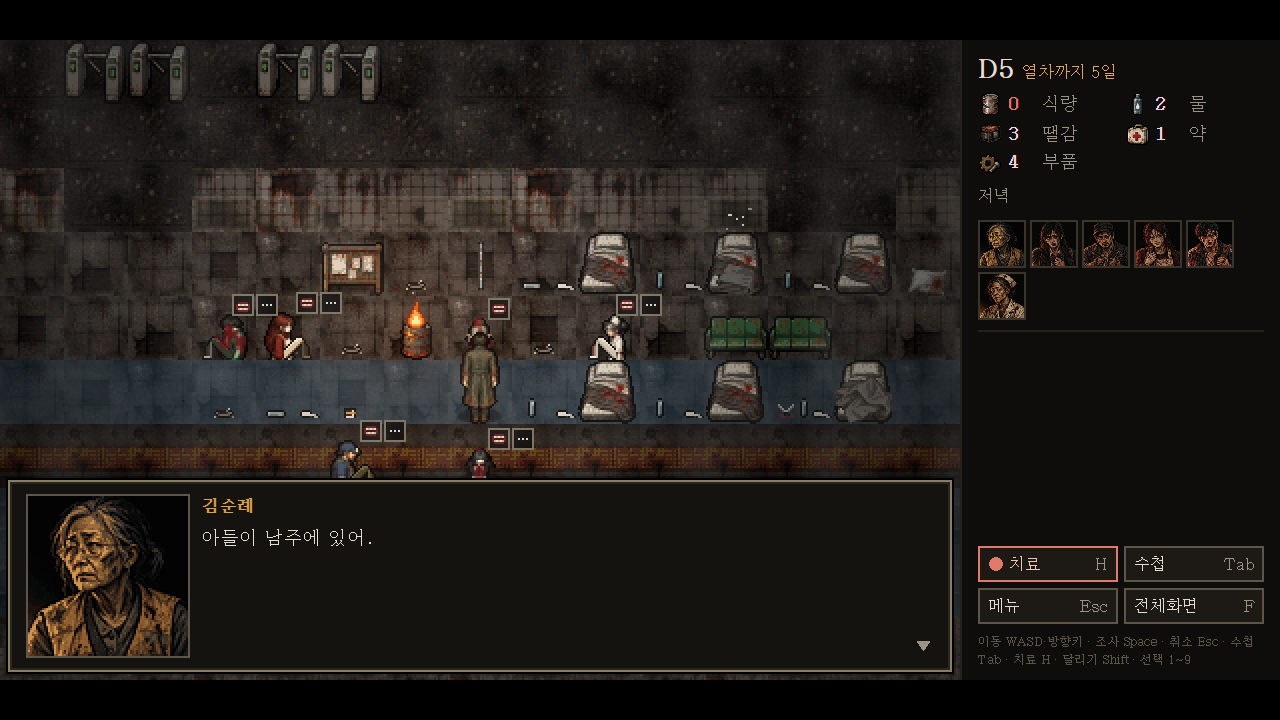
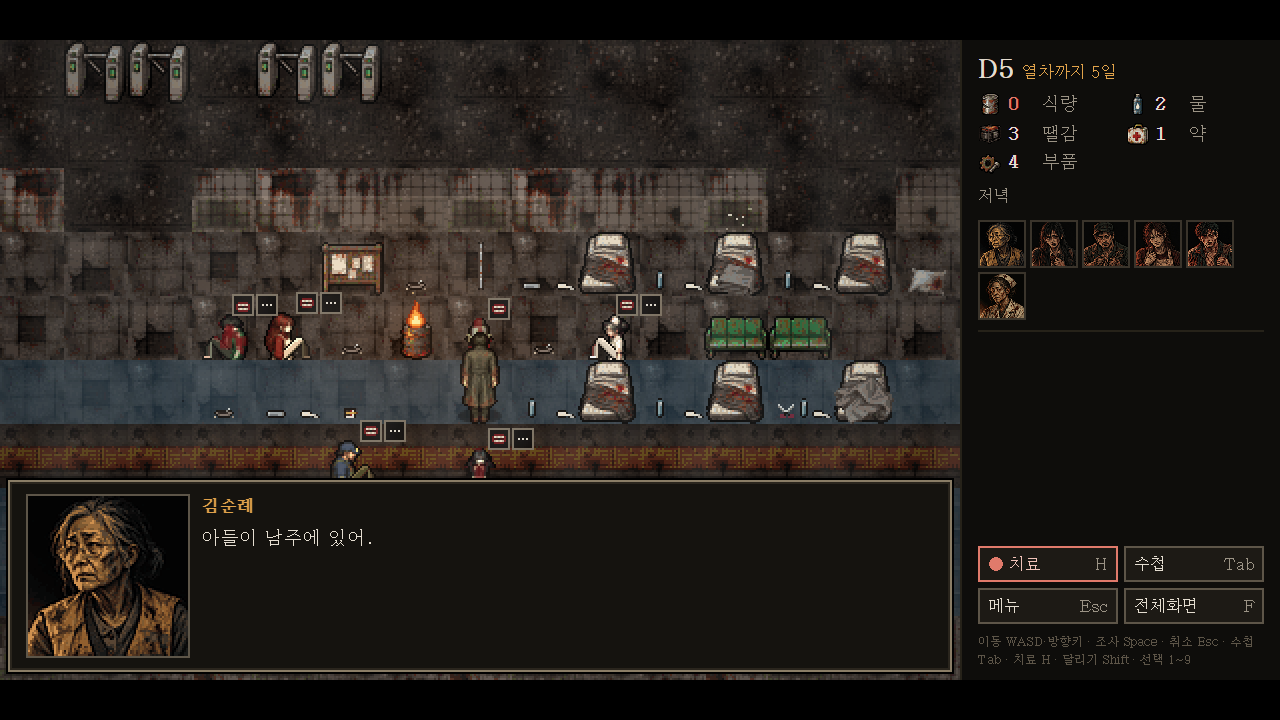
dark_station v4: 밝기 4번 적용 — 지도 어둠 −0.4(역 0), 어둠 0 처리 오류 수정

diff --git a/v4/render.js b/v4/render.js
@@ -150,7 +150,7 @@
     const g = lightCv.getContext('2d');
     g.globalCompositeOperation = 'source-over'; g.clearRect(0, 0, lightCv.width, lightCv.height);
     const night = state.phase === 'night' || state.phase === 'aftermath';
-    const dark = Math.min(0.9, (sc.map.dark || 0.4) + (night ? 0.2 : 0));
+    const dark = Math.min(0.9, (sc.map.dark ?? 0.4) + (night ? 0.2 : 0));
     g.fillStyle = `rgba(0,0,0,${dark})`; g.fillRect(0, 0, lightCv.width, lightCv.height);
     g.globalCompositeOperation = 'destination-out';
     // 광원: [x, y, r] = 둥근 빛 · [x, y, r, 방향(라디안), 폭] = 부채꼴 빛(기철 헤드램프 40°, P0-S5) — 빛 뿌리 둘레는 작게 둥글게 밝혀 얼굴이 보인다

diff --git a/docs/foundation/03_director_decisions.md b/docs/foundation/03_director_decisions.md
@@ -83,3 +83,4 @@
 - 10-24 **보고서 질문 2 — 이른 날의 모양(디렉터)**: 추천안 (가). D3은 규칙을 배우는 날(신중하면 그날 안 죽음), D6은 값을 치르면 사는 날. 그날 사망 합격선은 D2·D4·D5.
 - 10-24 **보고서 질문 3 — 정체(디렉터)**: 처음 하는 사람의 가장 흔한 결말이 '승객'인 것을 받아들인다. ('받아 적기'를 침묵에서 빼는 안은 답 없음 → 지금대로 둔다.)
 - 10-24 **보고서 질문 4(B5 밝기)**: 디렉터가 비교를 요청 → docs/foundation/meeting_2026-10-24/brightness_options.png (6단계). 답 대기. B1~B4·B6·질문 5는 답 대기(추천안으로 진행 중).
+- 10-24 **밝기(B5) — 4번(디렉터)**: 덮개 어둠을 걷는다. 적용: 역 0.4→0, 다른 지도도 같은 폭(−0.4)만큼(전동차 0.2·터널 0.4·지하상가 0.1/0.3·배수로 0.2/0.4) — 터널·수문 아래는 헤드램프·손전등 빛이 뜻을 가지도록 어둠을 남긴다. 밤은 +0.2 그대로. 화면 코드의 어둠 0 처리 오류(0을 '값 없음'으로 보던 것)도 고침.
